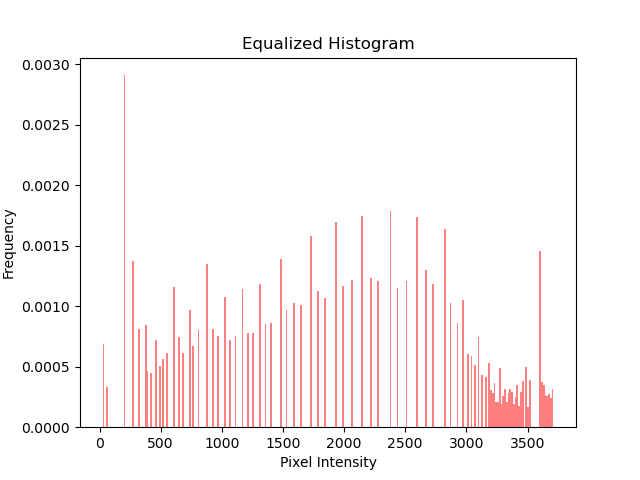
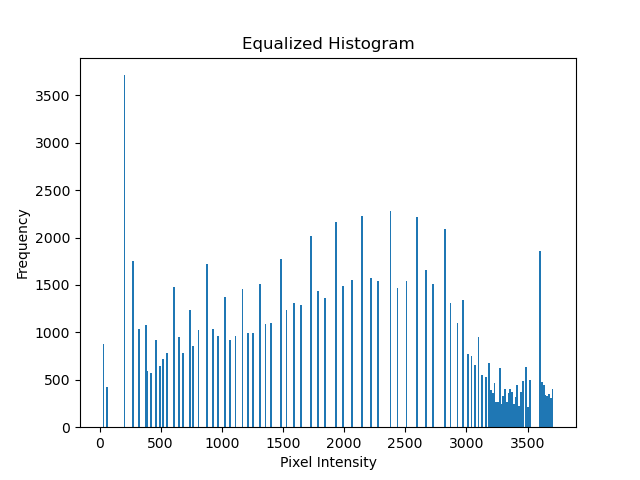
add intial gamma calc

diff --git a/histogram.py b/histogram.py
@@ -20,7 +20,7 @@ def equalize(x: np.array, path: str):
     equalized_hist = np.interp(x, bins[:-1], cdf_normalized)
     
     # Plot the normalized CDF
-    plt.plot(cdf_normalized, color='b')
+    plt.plot(cdf_normalized)
     plt.title('Normalized CDF')
     plt.xlabel('Pixel Intensity')
     plt.ylabel('CDF')
@@ -28,7 +28,7 @@ def equalize(x: np.array, path: str):
     plt.close()
 
     # Plot the equalized histogram
-    plt.hist(equalized_hist.flatten(), bins=256, color='r', alpha=0.5, density=True)
+    plt.hist(equalized_hist.flatten(), bins=256)
     plt.title('Equalized Histogram')
     plt.xlabel('Pixel Intensity')
     plt.ylabel('Frequency')
@@ -36,6 +36,28 @@ def equalize(x: np.array, path: str):
     plt.close()
     
     plt.imsave(Path(path).stem + '_equalized.png', x, cmap='gray')
+    
+def stretch(input_image, T1, T2, path: str):
+    # Ensure input image is of type uint8
+    input_image = np.asarray(input_image, dtype=np.uint8)
+
+    # Create an output array of the same shape as the input image
+    output_image = np.zeros_like(input_image)
+
+    # Apply the contrast stretching transformation
+    output_image[input_image <= T1] = 0
+    output_image[input_image >= T2] = 255
+    output_image[(input_image > T1) & (input_image < T2)] = ((input_image[(input_image > T1) & (input_image < T2)] - T1) / (T2 - T1)) * 255
+    
+    # Plot the equalized histogram
+    plt.hist(output_image.flatten(), bins=np.linspace(0, 255, 256))
+    plt.title('Stretched Histogram')
+    plt.xlabel('Pixel Intensity')
+    plt.ylabel('Frequency')
+    plt.savefig(Path(path).stem + '_stretch_hist.png')
+    plt.close()
+    
+    plt.imsave(Path(path).stem + '_stretch.png', output_image, cmap='gray')
 
 def main():
     path = sys.argv[1]
@@ -45,6 +67,8 @@ def main():
 
     gen_freq_hist(x, path)
     equalize(x, path)
+    stretch(x, 70, 180, path)
+    
     
 if __name__ == "__main__":
     main()

diff --git a/gamma.py b/gamma.py
@@ -1,0 +1,52 @@
+import numpy as np
+import matplotlib.pyplot as plt
+import sys
+from pathlib import Path
+
+def display_stripes(gray_level):
+    # Create an empty array of size 256x256
+    array = np.zeros((256, 256), dtype=np.uint8)
+
+    # Define constants
+    stripe_height = 16
+    checkerboard_block_edge_length = 2
+
+    # Calculate the number of stripes
+    num_stripes = array.shape[0] // stripe_height
+
+    # Alternate between checkerboard pattern and constant gray level
+    for i in range(num_stripes):
+        if i % 2 == 0:
+            # create checkerboard on a stripe
+            for j in range(i * stripe_height, (i + 1) * stripe_height, 1):
+                for k in range(array.shape[1]):
+                    if ((j // checkerboard_block_edge_length) + (k // checkerboard_block_edge_length)) % 2 == 0:
+                        array[j, k] = 255
+        else:
+            # gray level
+            array[i * stripe_height: (i + 1) * stripe_height, :] = gray_level
+
+    # Display the array
+    plt.imshow(array, cmap='gray', vmin=0, vmax=255)
+    plt.axis('off')
+    plt.show()
+
+    return array
+    
+def main():
+    initial_gray_level = 127
+    initial_image = display_stripes(initial_gray_level)
+    
+    matching_gray_level = 170
+    # Display the image with the matching gray level
+    matching_image = display_stripes(matching_gray_level)
+
+    # Print the matching gray level
+    print("Matching Gray Level:", matching_gray_level)
+
+    # Calculate gamma
+    gamma = np.log(0.5) / np.log(matching_gray_level / 255)
+    print("gamma: ", gamma)
+    
+if __name__ == "__main__":
+    main()
